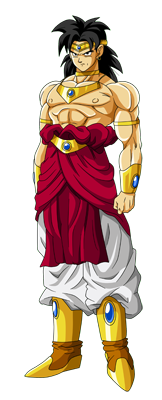
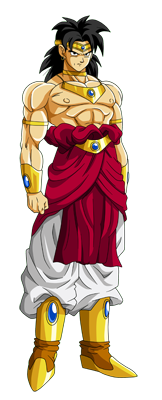
flip images and update components

diff --git a/src/app/scenes/SelectPage/components/SelectedCharacter/index.jsx b/src/app/scenes/SelectPage/components/SelectedCharacter/index.jsx
@@ -5,31 +5,20 @@ import { actions } from '../../../../reducer'
 import './style.scss'
 
 class SelectedCharacter extends React.Component {
-  renderPlayerHero = () => {
-    const { player, animatedHero } = this.props
-    if (player.isPlayerReady) {
-      return (
-        <div className={`character-hero-container animated ${player.isPlayerReady && animatedHero}`}>
-          <img src={player.character.hero} alt={player.character.name}/>
-        </div>
-      )
-    }
-  }
-
   renderPLayerImage = () => {
-    const { player , dbz, animatedCharacterOut } = this.props
+    const { player, isPlayer2 } = this.props
     return (
-      <div className={`character animated ${player.isPlayerReady && 'pulse'} ${dbz.finish && animatedCharacterOut}`}>
+      <div className={`character ${isPlayer2 && 'p2'} animated ${player.isPlayerReady && 'pulse'}`}>
         <img src={player.character.full} alt={player.character.name}/>
       </div>
     )
   }
 
   renderPlayerName = () => {
-    const { player, animatedName, animatedNameOut, dbz } = this.props
+    const { player, color, nameAnimation } = this.props
     if (player.isPlayerReady) {
       return (
-          <div className={`display-name-container animated ${!dbz.finish ? animatedName : animatedNameOut}`}>
+          <div className={`display-name-container ${color} animated ${nameAnimation}`}>
             <h1>{player.character.name}</h1>
           </div>
       )
@@ -39,9 +28,9 @@ class SelectedCharacter extends React.Component {
   }
 
   renderConfirmButton = () => {
-    const { onConfirm, dbz, animatedButton, animatedButtonOut, player } = this.props
+    const { onConfirm, buttonAnimation} = this.props
     return (
-      <div className={`select-btn-container animated ${!player.isPlayerReady ? animatedButton : animatedButtonOut}`}>
+      <div className={`select-btn-container animated ${buttonAnimation}`}>
         <button className="action-btn" onClick={onConfirm}>
           Select
         </button>
@@ -50,10 +39,14 @@ class SelectedCharacter extends React.Component {
   }
 
   render() {
-    const { className } = this.props
+    const { containerAnimation, isPlayerReady, dbz, className } = this.props
     return (
-      <div className={className}>
-        {/*{this.renderPlayerHero()}*/}
+      <div
+        className={`character-container animated
+          ${dbz.player2.isPlayerReady && isPlayerReady}
+          ${containerAnimation} ${className}`
+        }
+      >
         {this.renderPLayerImage()}
         {this.renderPlayerName()}
         {this.renderConfirmButton()}

diff --git a/src/app/scenes/SelectPage/index.jsx b/src/app/scenes/SelectPage/index.jsx
@@ -26,28 +26,26 @@ class SelectPage extends React.Component {
         <div>
           {dbz.player1.character && (
             <SelectedCharacter
+              color="red"
               player={dbz.player1}
-              animatedButton="bounceInLeft"
-              animatedButtonOut="fadeOutUp"
-              animatedName="fadeInUp"
-              animatedNameOut="bounceOutLeft"
-              animatedCharacterOut="fadeOut"
-              animatedHero="player1 fadeIn"
-              className={`${dbz.player2.isPlayerReady && 'get-closer-player1'} character-container animated fadeInLeft`}
+              buttonAnimation={!dbz.player1.isPlayerReady ? 'bounceInLeft' : 'fadeOutUp'}
+              nameAnimation={!dbz.finish ? 'fadeInUp' : 'bounceOutLeft'}
+              isPlayerReady="get-closer-player1"
+              containerAnimation={!dbz.finishSelection ? 'fadeInLeft' : 'fadeOutLeft'}
               onConfirm={this.handleConfirmPlayerOne()}
             />
           )}
           <CharacterList/>
           {dbz.player1.isPlayerReady && dbz.player2.character && (
             <SelectedCharacter
+              color="blue"
               player={dbz.player2}
-              animatedButton="bounceInRight"
-              animatedButtonOut="fadeOutUp"
-              animatedName="fadeInUp"
-              animatedNameOut="bounceOutRight"
-              animatedCharacterOut="fadeOut"
-              animatedHero="player2 fadeIn"
-              className={`${dbz.player2.isPlayerReady && 'get-closer-player2'} character-container player-2 animated fadeInRight`}
+              buttonAnimation={!dbz.player2.isPlayerReady ? 'bounceInRight' : 'fadeOutUp'}
+              nameAnimation={!dbz.finish ? 'fadeInUp' : 'bounceOutRight'}
+              isPlayerReady="get-closer-player2"
+              containerAnimation={!dbz.finishSelection ? 'fadeInRight' : 'fadeOutRight'}
+              className="player-2"
+              isPlayer2={true}
               onConfirm={this.handleConfirmPlayerTwo()}
             />
           )}

diff --git a/src/app/scenes/SelectPage/components/SelectedCharacter/style.scss b/src/app/scenes/SelectPage/components/SelectedCharacter/style.scss
@@ -14,17 +14,18 @@
   margin-left: 0;
   margin-right: 0;
   top: 0;
+  z-index: 3;
 
   &.get-closer-player1 {
     margin-left: 150px;
     top: -40px;
-    transition: 1.5s ease-out;
+    transition: 1.5s ease;
   }
 
   &.get-closer-player2 {
     margin-right: 150px;
     top: -40px;
-    transition: 1.5s ease-out;
+    transition: 1.5s ease;
   }
 
   &.player-2 {
@@ -42,6 +43,7 @@
     text-align: center;
     position: relative;
     z-index: 2;
+    margin-top: -60px;
 
     &:after {
       position: absolute;
@@ -53,6 +55,13 @@
       border-radius: 50%;
       height: 15px;
       box-shadow: 0 40px 45px rgba(0,0,0,0.7);
+    }
+
+    &.p2 {
+
+      img {
+        transform: rotateY(180deg);
+      }
     }
 
     img {
@@ -71,27 +80,9 @@
     //border: 1px solid blue;
     position: absolute;
     width: 100%;
-    margin-top: 290px;
+    margin-top: 245px;
     text-align: center;
     z-index: 5 !important;
-
-    .select-btn {
-      background: transparent;
-      position: relative !important;
-      border: 2px solid #440000;
-      border-radius: 14px;
-      padding: 10px 15px;
-      font-weight: bold;
-      color: #440000;
-      font-size: 30px;
-      cursor: pointer;
-      z-index: 6 !important;
-
-      &:hover {
-        background: #440000;
-        color: #666666;
-      }
-    }
   }
 
   /*---------------
@@ -102,10 +93,18 @@
     //border-bottom: 2px solid black;
     position: absolute;
     width: 100%;
-    margin-top: 290px;
+    margin-top: 245px;
     text-align: center;
     z-index: 2;
     animation-duration: .8s;
+
+    &.blue h1 {
+      text-shadow: 0 0 6px rgba(0,0,255,0.4), 0 24px 38px rgba(0,0,0,0.6);;
+    }
+
+    &.red h1{
+      text-shadow: 0 0 6px rgba(255,0,0,0.6), 0 24px 38px rgba(0,0,0,0.6);
+    }
 
     h1 {
       font-size: 3em;

diff --git a/src/app/scenes/PreFightPage/style.scss b/src/app/scenes/PreFightPage/style.scss
@@ -7,7 +7,7 @@
   height: 100%;
   position: absolute;
   display: flex;
-  overflow: hidden;
+  //overflow: hidden;
   align-items: center;
 
   /*---------------
@@ -15,26 +15,54 @@ CHARACTER - HERO
 ------------*/
 
   .character-hero-container {
-    border-bottom: 5px solid black;
+    //border: 1px solid black;
     position: absolute;
-    top: 20px;
+    top: 40px;
     width: 450px;
-    height: 500px;
+    height: 460px;
     z-index: 1;
 
+    .display-name-container {
+      position: absolute;
+      //border: 1px solid green;
+      width: 100%;
+      bottom: -120px;
+
+      &.blue h1 {
+        text-shadow: 0 0 6px rgba(0,0,255,0.4), 0 24px 38px rgba(0,0,0,0.6);;
+      }
+
+      &.red h1{
+        text-shadow: 0 0 6px rgba(255,0,0,0.6), 0 24px 38px rgba(0,0,0,0.6);
+      }
+    }
+
     img {
+      //border: 1px solid red;
       bottom: 0;
-      height: 500px;
+      position: absolute;
+      height: 100%;
     }
 
     &.player1 {
-      left: 0px;
-      text-align: right;
+      left: 120px;
+      //text-align: right;
+      text-align: center;
+
+      img {
+        right: 0;
+      }
     }
 
     &.player2 {
-      right: 0px;
-      text-align: left;
+      right: 120px;
+      //text-align: left;
+      text-align: center;
+
+      img {
+        left: 0;
+        transform: rotateY(180deg);
+      }
     }
   }
 

diff --git a/src/app/scenes/PreFightPage/index.jsx b/src/app/scenes/PreFightPage/index.jsx
@@ -17,11 +17,11 @@ class PreFightPage extends React.Component {
       this.setState({
         fadeOut: true,
       })
-    ), 3000)
+    ), 5000)
 
     setTimeout(() => (
       actions.restart()
-    ), 5000)
+    ), 6000)
   }
 
   renderPreFightPage = () => {
@@ -33,7 +33,7 @@ class PreFightPage extends React.Component {
         <div className="pre-fight-page-container">
           <div className={`character-hero-container player1 animated ${!fadeOut ? 'fadeInLeft' : 'fadeOutLeft'}`}>
             <img src={dbz.player1.character.hero} alt="player 1"/>
-            <div className={`display-name-container animated`}>
+            <div className={`display-name-container red animated`}>
               <h1>{dbz.player1.character.name}</h1>
             </div>
           </div>
@@ -45,7 +45,7 @@ class PreFightPage extends React.Component {
           </div>
           <div className={`character-hero-container player2 animated ${!fadeOut ? 'fadeInRight' : 'fadeOutRight'}`}>
             <img src={dbz.player2.character.hero} alt="player 2"/>
-            <div className={`display-name-container animated`}>
+            <div className={`display-name-container blue animated`}>
               <h1>{dbz.player2.character.name}</h1>
             </div>
           </div>

diff --git a/src/app/components/LogoAnimated/index.jsx b/src/app/components/LogoAnimated/index.jsx
@@ -6,9 +6,15 @@ class LogoAnimated extends React.Component {
   }
 
   handleClickLogo = () => () => {
-    this.setState(prevState => ({
-      logo: !prevState.logo,
-    }))
+    this.setState({
+      logo: true,
+    })
+
+    setTimeout(() => (
+      this.setState({
+        logo: false,
+      })
+    ), 1000)
   }
 
   render() {
@@ -16,7 +22,7 @@ class LogoAnimated extends React.Component {
     const { logo } = this.state
     return (
       <div className={`animated ${animation}`}>
-        <div onClick={this.handleClickLogo()} className={`logo-container animated ${logo ? 'tada' : 'jello'}`}>
+        <div onClick={this.handleClickLogo()} className={`logo-container animated ${logo && 'tada'}`}>
           <img src={require('../../../img/logo.png')} alt="dragon ball"/>
         </div>
       </div>

diff --git a/src/app/scenes/SelectPage/components/CharaterList/index.jsx b/src/app/scenes/SelectPage/components/CharaterList/index.jsx
@@ -48,8 +48,9 @@ class CharacterList extends React.Component {
   }
 
   renderLogo = () => {
+    const { dbz } = this.props
     return (
-      <LogoAnimated animation="rotateIn" />
+      <LogoAnimated animation={!dbz.finishSelection ? 'rotateIn' : 'rotateOut'} />
     )
   }
 

diff --git a/src/app/style.scss b/src/app/style.scss
@@ -23,6 +23,17 @@ body {
   background: #666666;
 }
 
+.app {
+  //border: 1px dashed orange;
+  position: relative;
+  overflow: hidden;
+  width: 100%;
+  height: 100vh;
+  max-width: 1600px;
+  margin: auto;
+  max-height: 800px
+}
+
 /*---------
   HEADINGS
  -------*/

diff --git a/src/app/index.jsx b/src/app/index.jsx
@@ -41,7 +41,7 @@ class App extends React.Component {
   render() {
     const { dbz } = this.props
     return (
-      <div>
+      <div className="app">
         {this.renderStartPage()}
         {this.renderSelectPage()}
         {this.renderPreFightPage()}

diff --git a/src/app/scenes/SelectPage/components/CharaterList/style.scss b/src/app/scenes/SelectPage/components/CharaterList/style.scss
@@ -1,7 +1,7 @@
 .character-list-container {
   //border: 2px solid orange;
-  position: fixed;
-  top: 140px;
+  position: absolute;
+  top: 100px;
   width: 100%;
   perspective: 1200px;
   z-index: 2;

diff --git a/src/app/scenes/StartPage/style.scss b/src/app/scenes/StartPage/style.scss
@@ -7,7 +7,7 @@
   height: 100%;
   position: absolute;
   display: flex;
-  overflow: hidden;
+  //overflow: hidden;
   align-items: center;
   
   .start-page-container {
